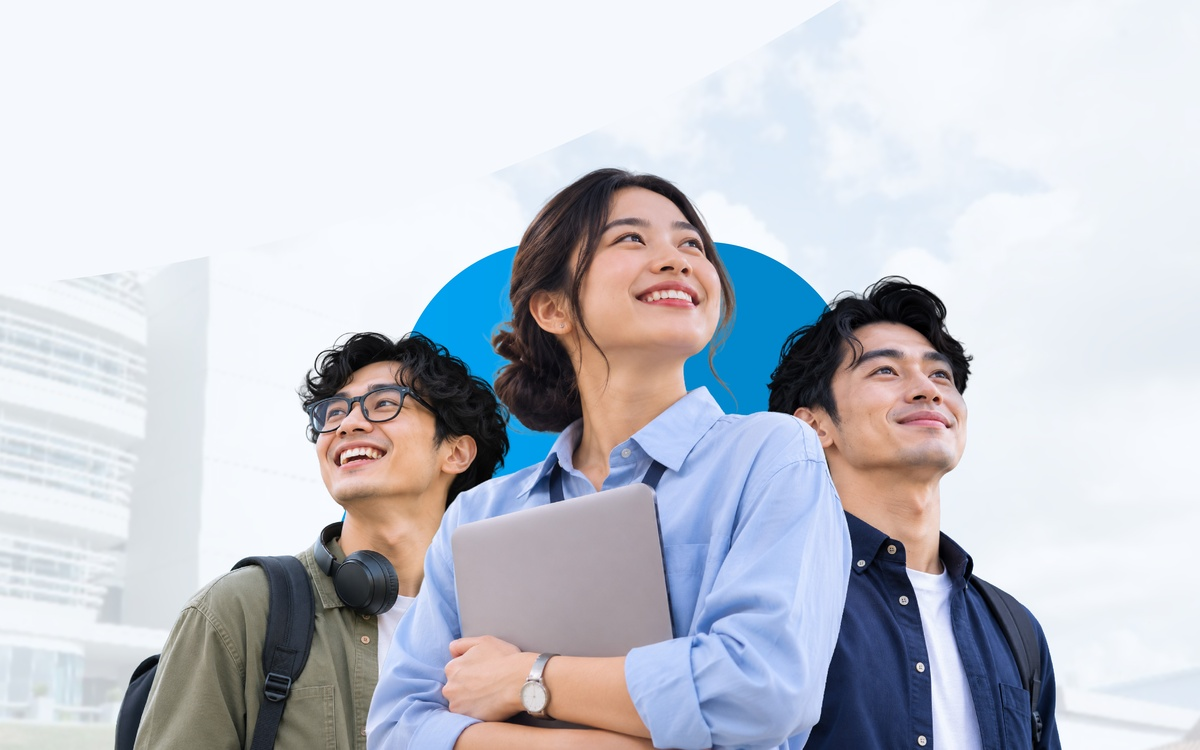
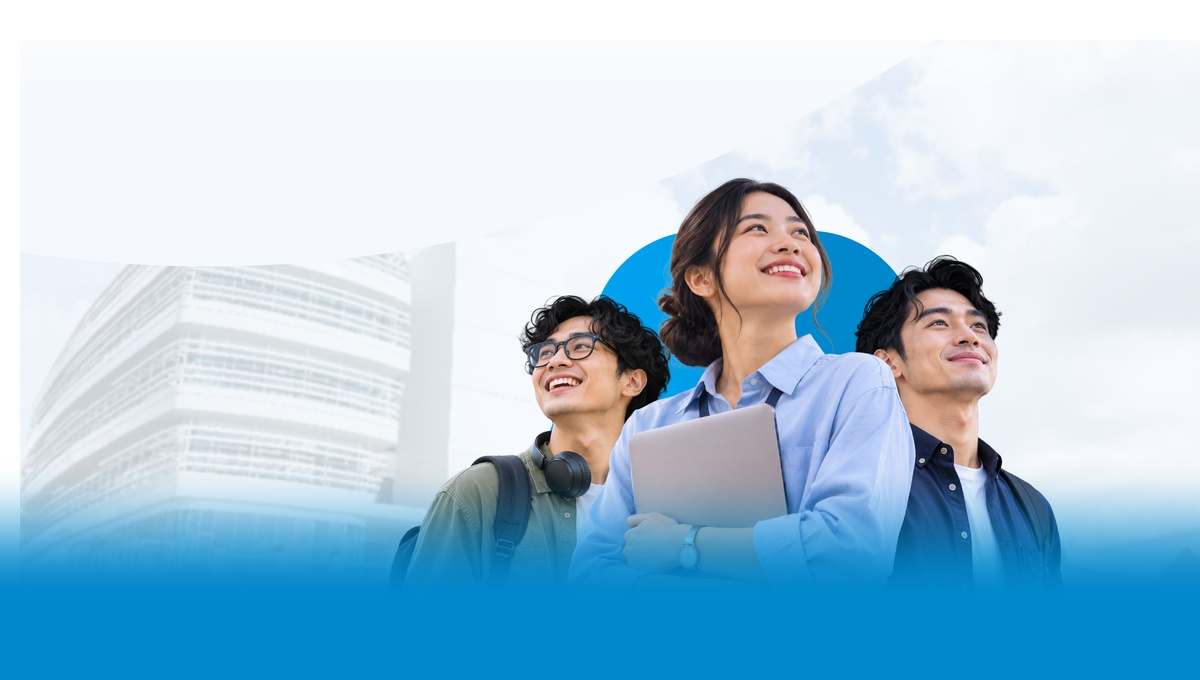
feat(ui): frame 3 alumni completely with campus building background and seamless gradients

diff --git a/src/app/page.tsx b/src/app/page.tsx
@@ -283,40 +283,36 @@ export default function HomePage() {
         </div>
 
         {/* HERO FOTO FULL-BLEED (HP & Tablet): Menyatu dengan gradient putih di atas dan biru di bawah */}
-        <div className="relative lg:hidden w-full mt-6 overflow-hidden">
-          <div className="relative w-full h-[460px] sm:h-[500px]">
+        <div className="relative lg:hidden w-full mt-4 overflow-hidden">
+          {/* Foto Kampus & Alumni tanpa crop samping */}
+          <div className="relative w-full">
             <img
               src="/landing_hero_mobile.jpg"
               alt="Komunitas Alumni STMM MMTC Yogyakarta"
-              className="w-full h-full object-cover object-[50%_12%] pointer-events-none select-none"
+              className="block w-full h-auto object-cover pointer-events-none select-none"
             />
-            {/* Gradient atas memudar ke putih (menyatu dengan teks headline di atas) */}
-            <div className="absolute inset-x-0 top-0 h-24 bg-gradient-to-b from-white via-white/80 to-transparent pointer-events-none" />
-            
-            {/* Gradient bawah memudar ke biru MMTC pekat (menyatu dengan dock) */}
-            <div className="absolute inset-x-0 bottom-0 h-44 bg-gradient-to-t from-[#0188cc] via-[#0188cc]/90 to-transparent pointer-events-none" />
+          </div>
 
-            {/* Tombol CTA mengambang di atas gradient biru di bagian bawah foto */}
-            <div className="absolute inset-x-0 bottom-4 px-4 sm:px-6 z-10">
-              <div className="flex flex-col sm:flex-row items-stretch sm:items-center gap-2.5">
-                <Link 
-                  href="/open-to-work" 
-                  className="inline-flex items-center justify-center gap-2 px-7 py-3 rounded-xl bg-white hover:bg-slate-50 text-[#0087cc] font-bold text-sm tracking-wide shadow-lg shadow-black/15 transition-all duration-200 active:scale-[0.98]"
-                >
-                  <span>Gabung Sekarang</span>
-                  <ArrowRight className="w-4 h-4 text-[#0087cc]" />
-                </Link>
+          {/* Tombol CTA di bawah foto pada bidang biru MMTC yang menyatu dengan dock */}
+          <div className="relative bg-[#0188cc] -mt-px px-4 sm:px-6 pt-1 pb-6 z-10">
+            <div className="flex flex-col sm:flex-row items-stretch sm:items-center gap-3">
+              <Link 
+                href="/open-to-work" 
+                className="inline-flex items-center justify-center gap-2 px-7 py-3.5 rounded-xl bg-white hover:bg-slate-50 text-[#0087cc] font-bold text-sm tracking-wide shadow-md hover:shadow-lg transition-all duration-200 active:scale-[0.98]"
+              >
+                <span>Gabung Sekarang</span>
+                <ArrowRight className="w-4 h-4 text-[#0087cc]" />
+              </Link>
 
-                <Link 
-                  href="/feed" 
-                  className="inline-flex items-center justify-center gap-2 px-6 py-3 rounded-xl bg-white/15 hover:bg-white/25 text-white font-bold text-sm border border-white/40 shadow-sm backdrop-blur-md transition-all duration-200 active:scale-[0.98]"
-                >
-                  <div className="w-5 h-5 rounded-full border border-white/60 flex items-center justify-center text-white">
-                    <Play className="w-2.5 h-2.5 fill-current ml-0.5 text-white" />
-                  </div>
-                  <span>Lihat Cerita Alumni</span>
-                </Link>
-              </div>
+              <Link 
+                href="/feed" 
+                className="inline-flex items-center justify-center gap-2 px-6 py-3.5 rounded-xl bg-white/15 hover:bg-white/25 text-white font-bold text-sm border border-white/40 shadow-xs backdrop-blur-sm transition-all duration-200 active:scale-[0.98]"
+              >
+                <div className="w-5 h-5 rounded-full border border-white/60 flex items-center justify-center text-white">
+                  <Play className="w-2.5 h-2.5 fill-current ml-0.5 text-white" />
+                </div>
+                <span>Lihat Cerita Alumni</span>
+              </Link>
             </div>
           </div>
         </div>
